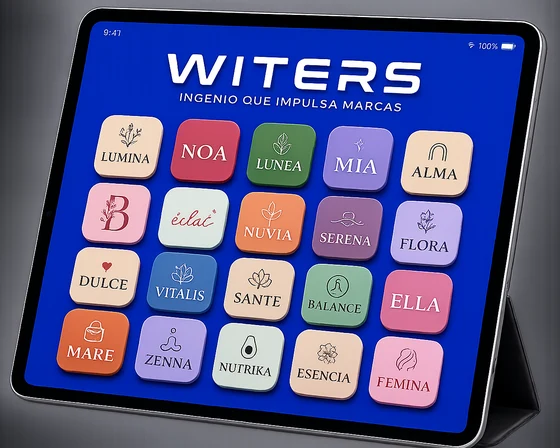
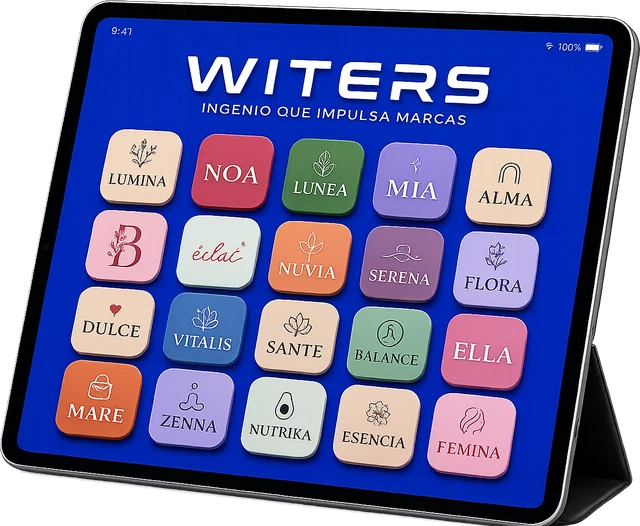
Fix tablet mockup: real transparent background + visible on mobile
The previous crop discarded the source PNG's alpha channel (converted
straight to RGB), which is why the tablet showed a solid dark
rectangle instead of floating transparently — the dark fill wasn't
part of the artwork, it was just what the flattened-out alpha left
behind. Re-cropped keeping alpha and saved as webp with transparency.
Also removed the sm:block-only gating that hid it below the sm
breakpoint; it now shows at every width with a smaller size/gap on
mobile so it doesn't cause horizontal overflow.

diff --git a/witers-app/src/routes/marca.tsx b/witers-app/src/routes/marca.tsx
@@ -120,7 +120,7 @@ function Hero() {
               alt=""
               aria-hidden="true"
               draggable={false}
-              className="wit-float pointer-events-none absolute left-full top-1/2 z-10 ml-[2cm] hidden w-24 -translate-y-1/2 rotate-[7deg] drop-shadow-[0_20px_45px_rgba(5,13,40,0.28)] sm:block sm:w-32 md:w-40"
+              className="wit-float pointer-events-none absolute left-full top-1/2 z-10 ml-[1cm] w-16 -translate-y-1/2 rotate-[7deg] drop-shadow-[0_20px_45px_rgba(5,13,40,0.28)] sm:ml-[2cm] sm:w-32 md:w-40"
             />
           </div>
           <p className="mt-5 text-2xl font-bold leading-snug text-wit-ink">
